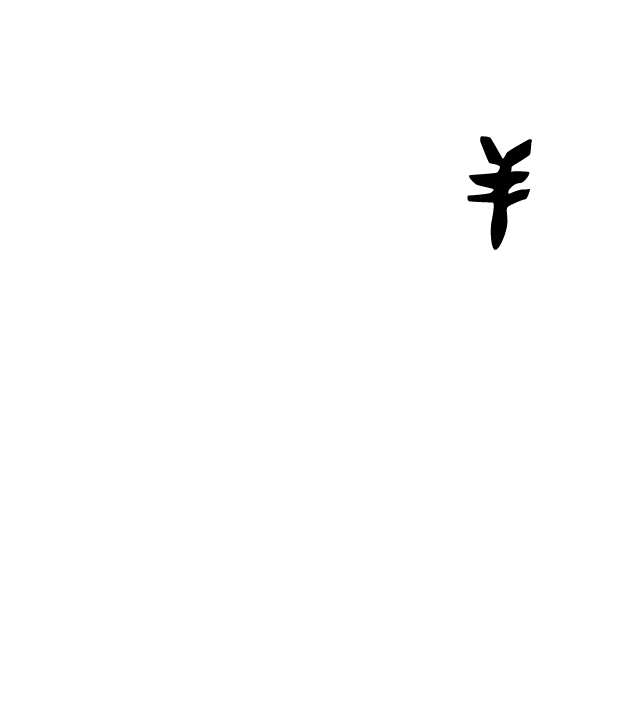
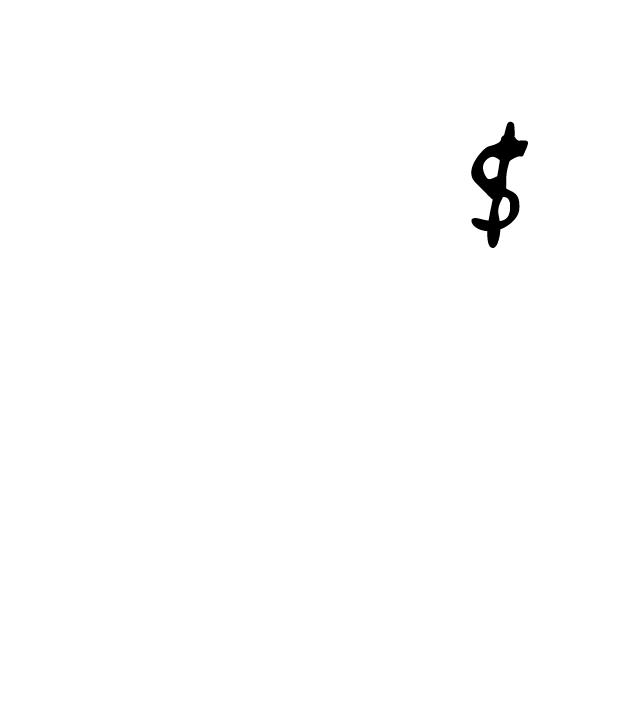
251225🎄 コーディネータ EddにWong追加

Changed region(s): [[0.7188, 0.1528, 0.8438, 0.3667]]

diff --git a/coordinator/assets/css/style-eddA.css b/coordinator/assets/css/style-eddA.css
@@ -95,7 +95,8 @@
 .eddA .char__dollar,
 .eddA .char__yen,
 .eddA .char__euro,
-.eddA .char__rupee
+.eddA .char__rupee,
+.eddA .char__wong
 {
     position: absolute;
     /* Testing Purpose Only */
@@ -131,11 +132,16 @@
     -webkit-mask-image: url(../images/eddA_rupee.png);
     mask-image: url(../images/eddA_rupee.png);
 }
+.eddA .char__wong {
+    -webkit-mask-image: url(../images/eddA_wong.png);
+    mask-image: url(../images/eddA_wong.png);
+}
 
 .testingPurpose .eddA .char__dollar::before,
 .testingPurpose .eddA .char__yen::before,
 .testingPurpose .eddA .char__euro::before,
-.testingPurpose .eddA .char__rupee::before
+.testingPurpose .eddA .char__rupee::before,
+.testingPurpose .eddA .char__wong::before
  {
     content:" - Currency";
     position: absolute;
@@ -146,7 +152,6 @@
 
 .eddA .char__printer  {
     position: absolute;
-    
     /* Testing Purpose Only */
     width: 20px;
     height: 20px;
@@ -183,6 +188,7 @@
 .testingPurpose .eddA .char__yen,
 .testingPurpose .eddA .char__euro,
 .testingPurpose .eddA .char__rupee,
+.testingPurpose .eddA .char__wong,
 .testingPurpose .eddA .char__printer {
     mask: none !important;
     width: 20px !important;
@@ -199,7 +205,8 @@
 .testingPurpose .eddA .char__dollar,
 .testingPurpose .eddA .char__yen,
 .testingPurpose .eddA .char__euro,
-.testingPurpose .eddA .char__rupee
+.testingPurpose .eddA .char__rupee,
+.testingPurpose .eddA .char__wong
  {
     top: 60px;
 }

diff --git a/coordinator/assets/js/main.js b/coordinator/assets/js/main.js
@@ -222,6 +222,10 @@ class EddA extends Jonny {
                 this.img.src = "assets/images/eddA_variable_rupee.webp";
                 this.createColormat('Rupee','char__rupee');
             break;
+            case 4:
+                this.img.src = "assets/images/eddA_variable_wong.webp";
+                this.createColormat('Wong','char__wong');
+            break;
         }
         // this.img.src = "assets/images/eddA_original.webp";
         this.jonnyMain.classList.remove('jonny');
@@ -1153,7 +1157,7 @@ class ColorMat {
     });
     document.querySelector('.character_adder__eddA').addEventListener('click', b=>{
         b.preventDefault();
-        characters.push(new EddA(Math.floor(Math.random()*4)));
+        characters.push(new EddA(Math.floor(Math.random()*5)));
     });
     
     // Print button
